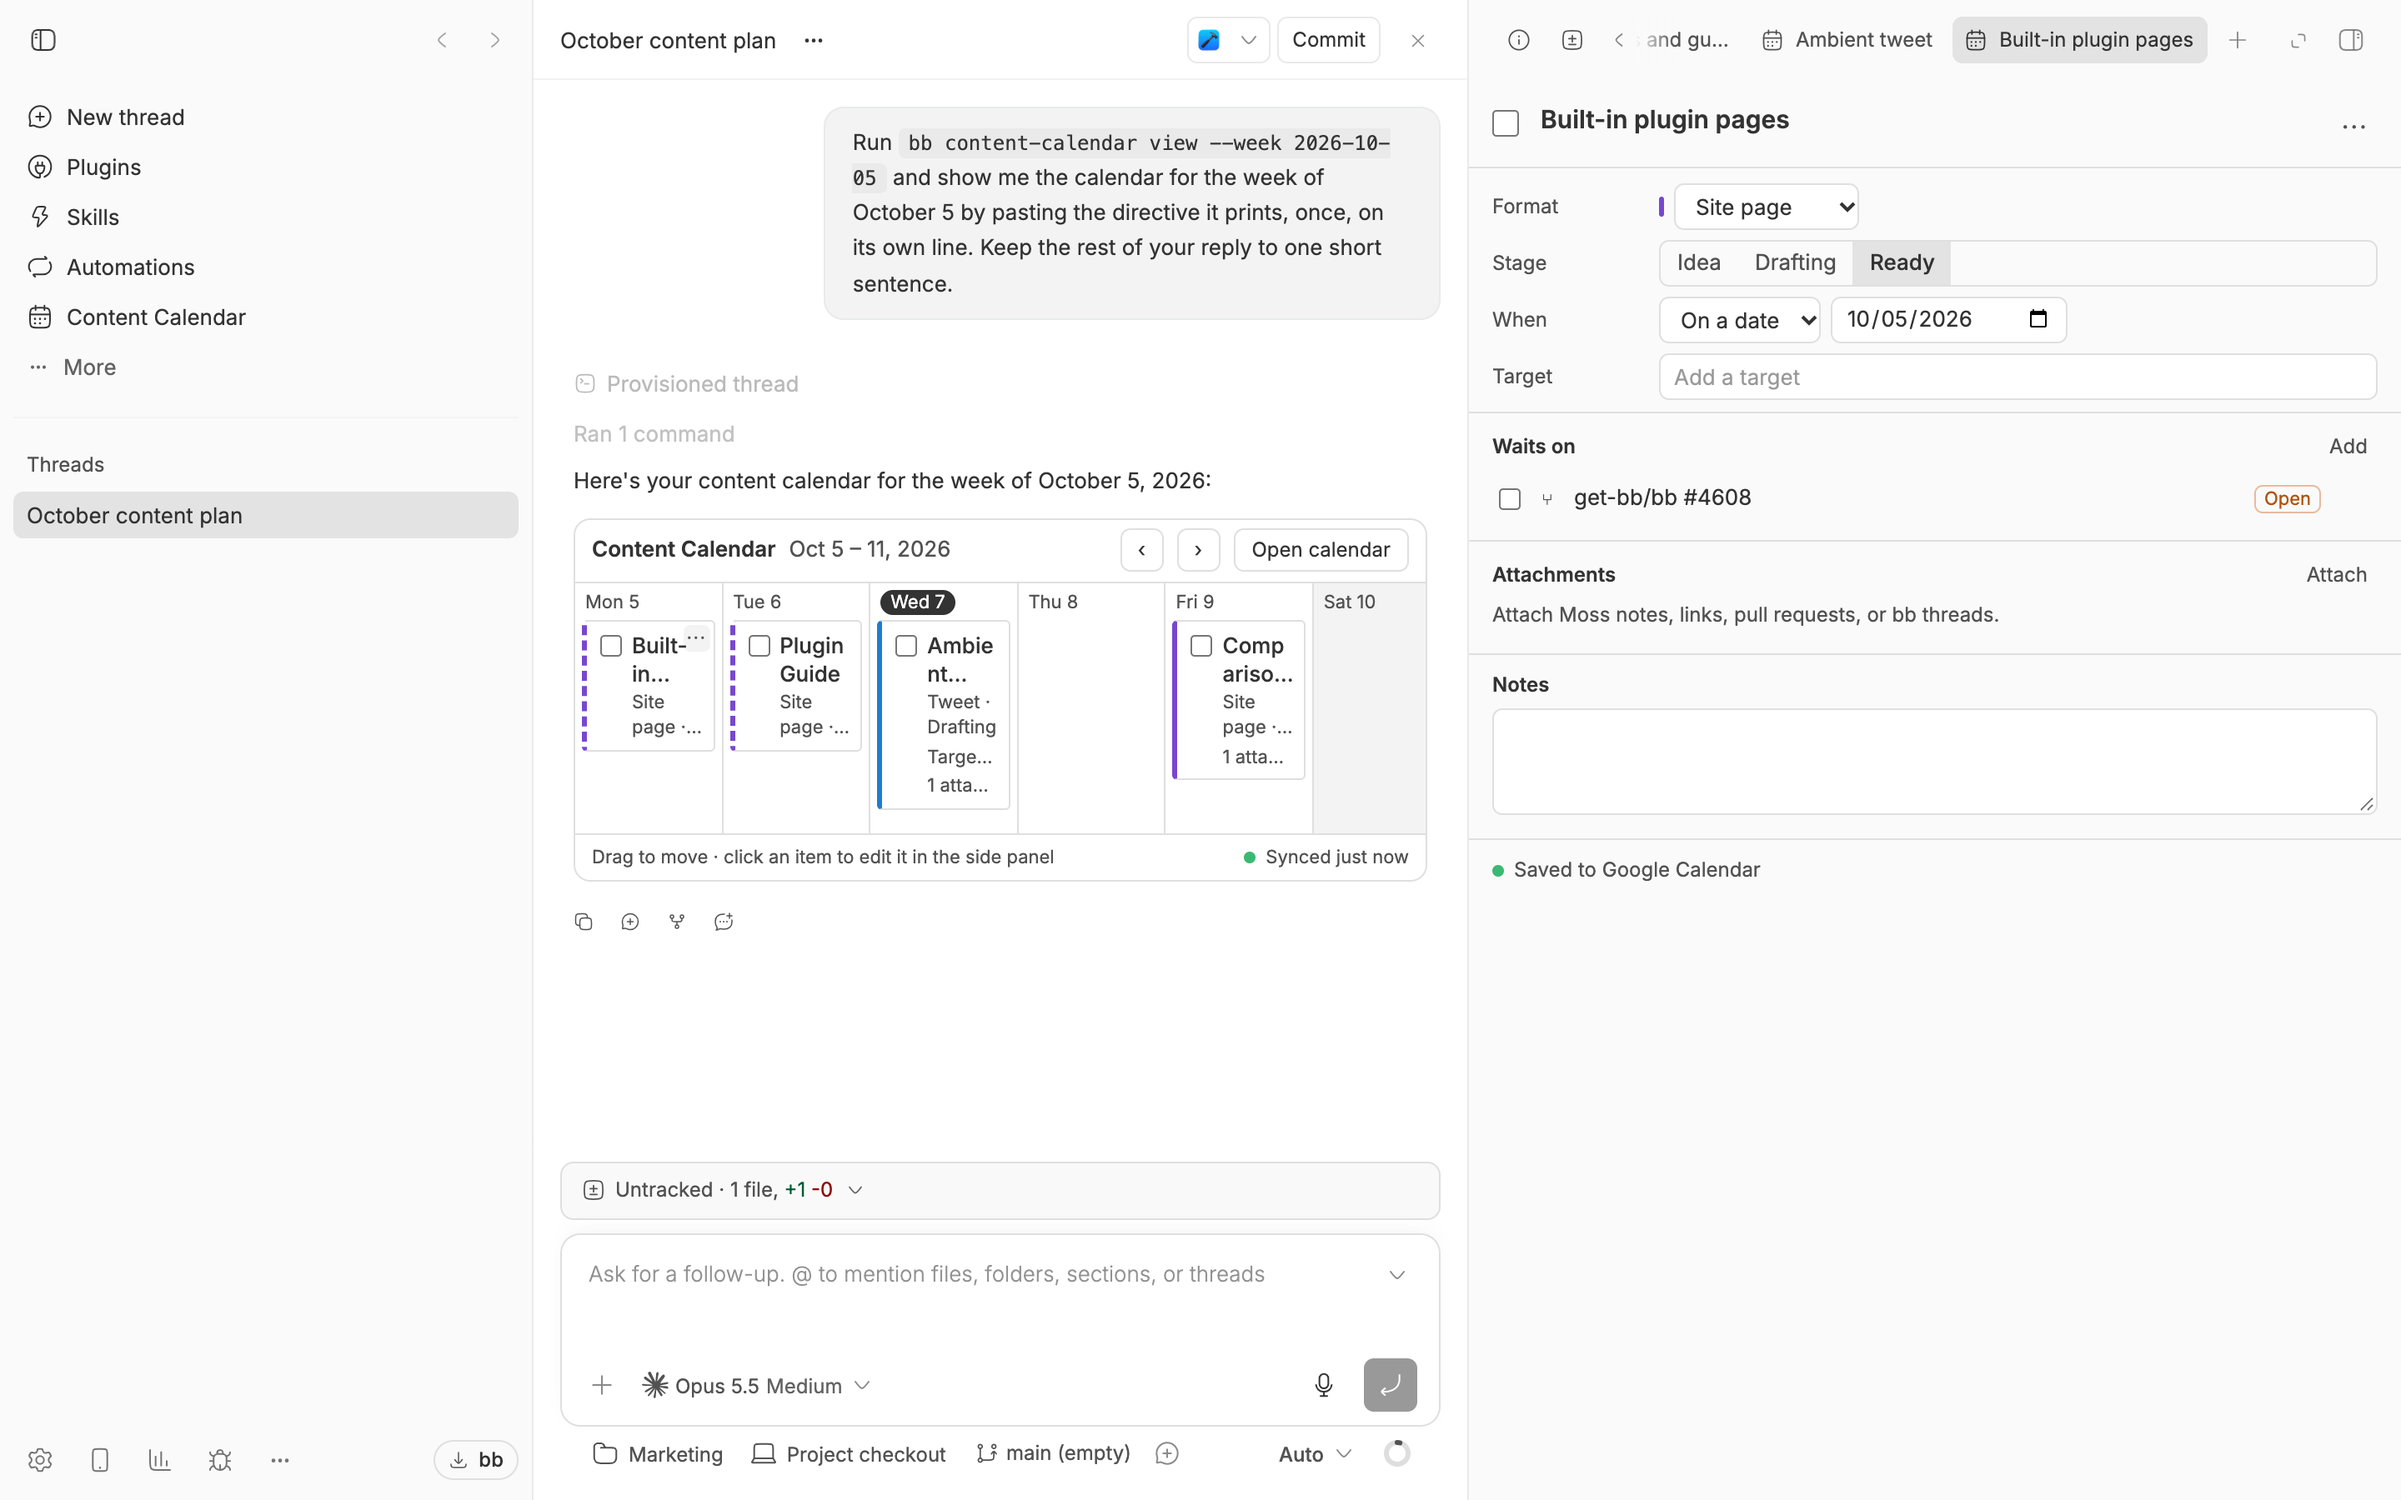
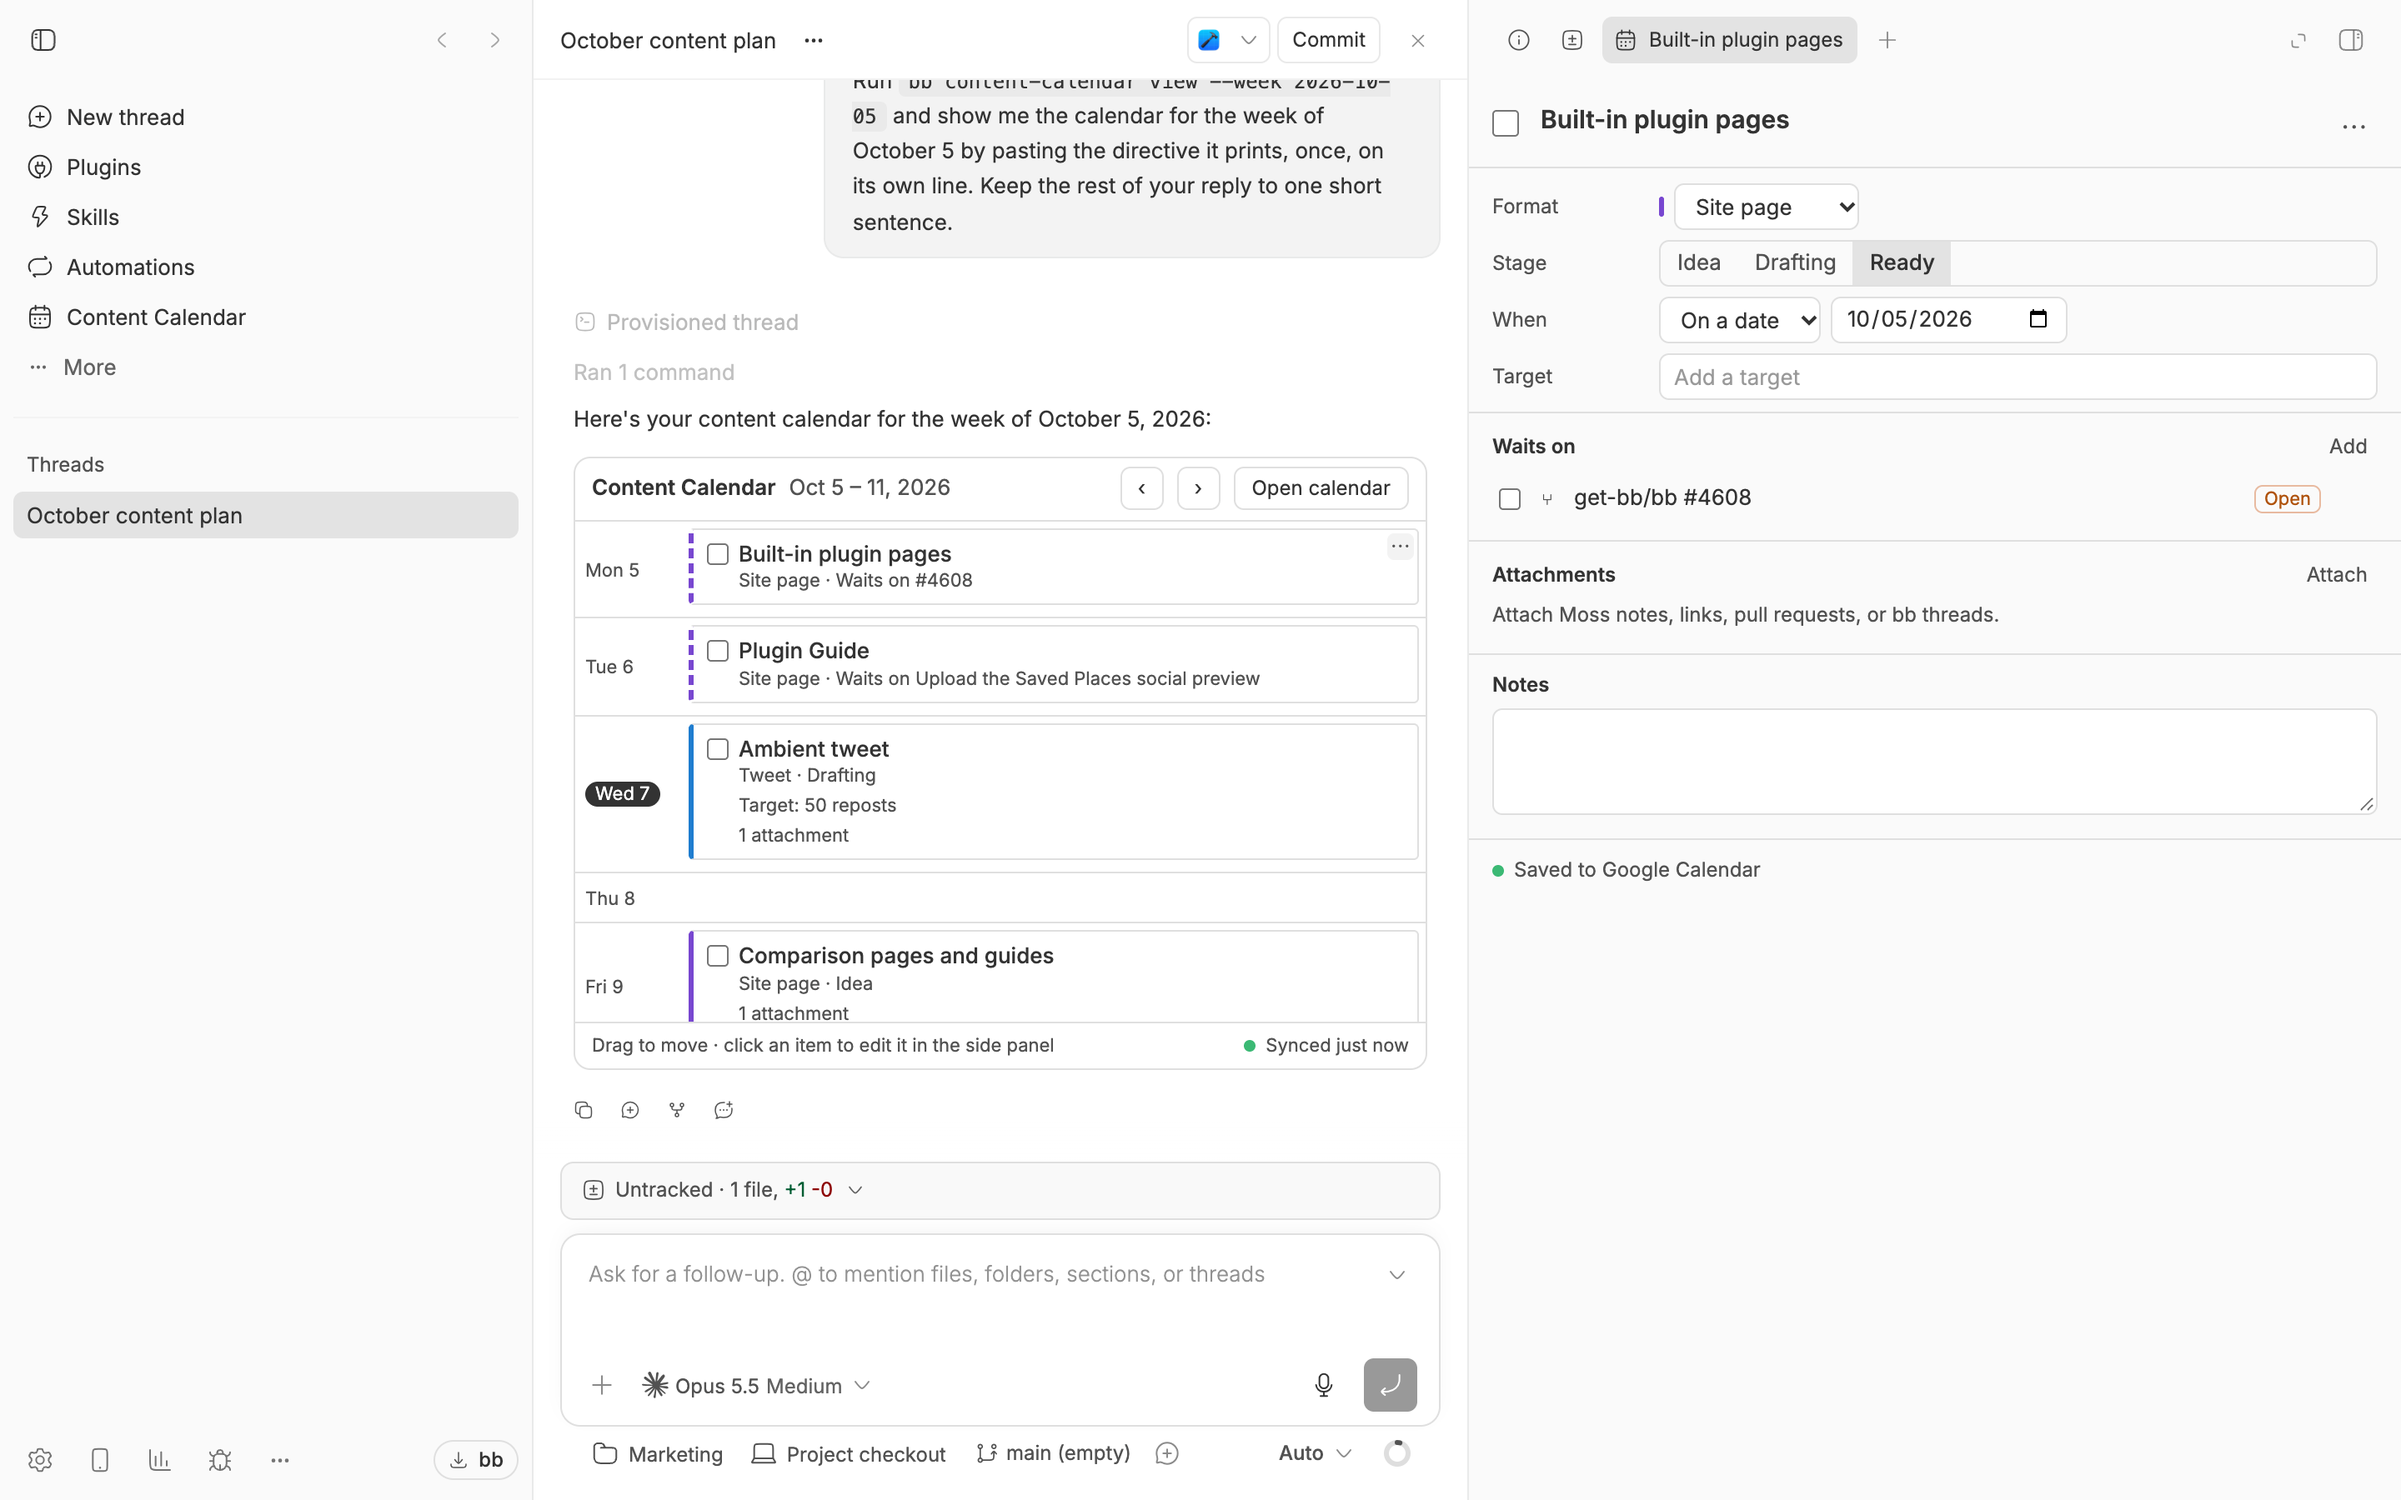
Content Calendar: float item detail over the grid on narrower pages; new inline screenshot

diff --git a/plugins/content-calendar/app.css b/plugins/content-calendar/app.css
@@ -65,7 +65,9 @@ textarea.cc-input { height: auto; }
 .cc-page-layout { display: flex; height: 100%; min-height: 0; }
 .cc-page-main { flex: 1; min-width: 0; overflow: auto; padding-bottom: 16px; }
 .cc-page-detail { width: clamp(300px, 30%, 400px); flex: none; overflow: auto; border-left: 1px solid var(--border); }
-@media (max-width: 900px) {
+.cc-page { container-type: inline-size; }
+/* Below this width a side-by-side pane would crush the grid, so detail floats over it instead. */
+@container (max-width: 1300px) {
   .cc-page-layout { position: relative; }
   .cc-page-detail { position: absolute; inset: 0 0 0 auto; width: min(400px, 100%); background: var(--background); box-shadow: -8px 0 24px color-mix(in oklab, var(--foreground) 12%, transparent); z-index: 2; }
 }
@@ -217,5 +219,3 @@ textarea.cc-input { height: auto; }
   .cc-embed-week .cc-day-items { flex: 1; min-width: 0; }
   .cc-embed-week .cc-item-week { margin-bottom: 3px; }
 }
-/* With item detail open, weekends get full-width columns so their titles stay readable. */
-.cc-with-detail .cc-grid { grid-template-columns: repeat(7, minmax(0, 1fr)); }

diff --git a/plugins/content-calendar/app.tsx b/plugins/content-calendar/app.tsx
@@ -55,7 +55,7 @@ function ConnectedPage({ range, today, go, status, onStatus }: {
   const data = useCalendarData(from, to, true);
   const [selected, setSelected] = useState<string | null>(null);
   const live = data.view?.status ?? status;
-  return <div className={selected ? "cc-page-layout cc-with-detail" : "cc-page-layout"}>
+  return <div className="cc-page-layout">
     <div className="cc-page-main">
       <div className="cc-toolbar">
         <button type="button" className="cc-button cc-icon-only" aria-label={range.view === "week" ? "Previous week" : "Previous month"} onClick={() => go(shiftRange(range, -1))}>‹</button>
